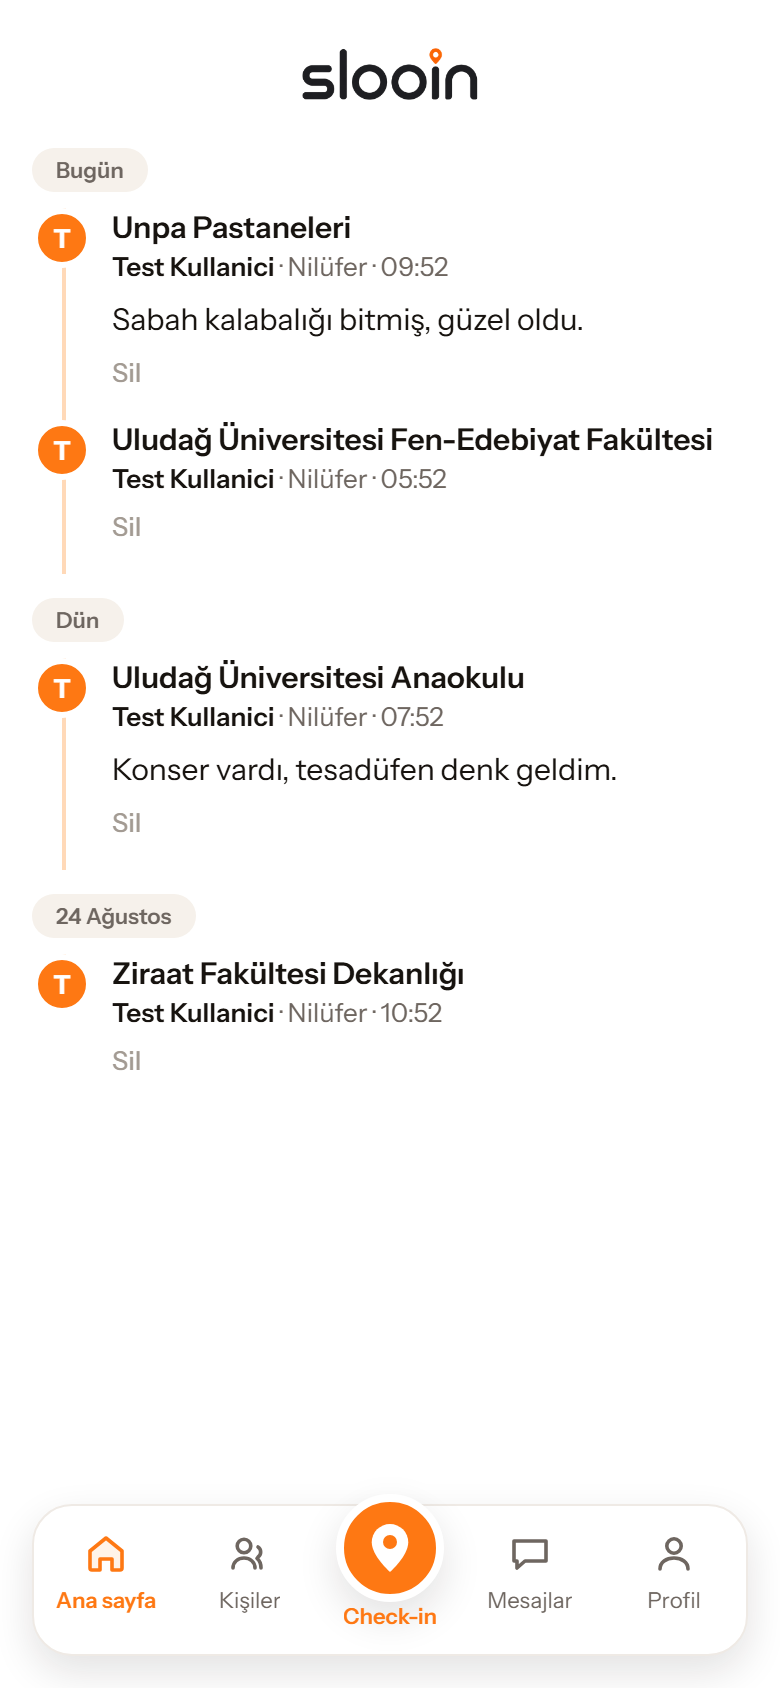
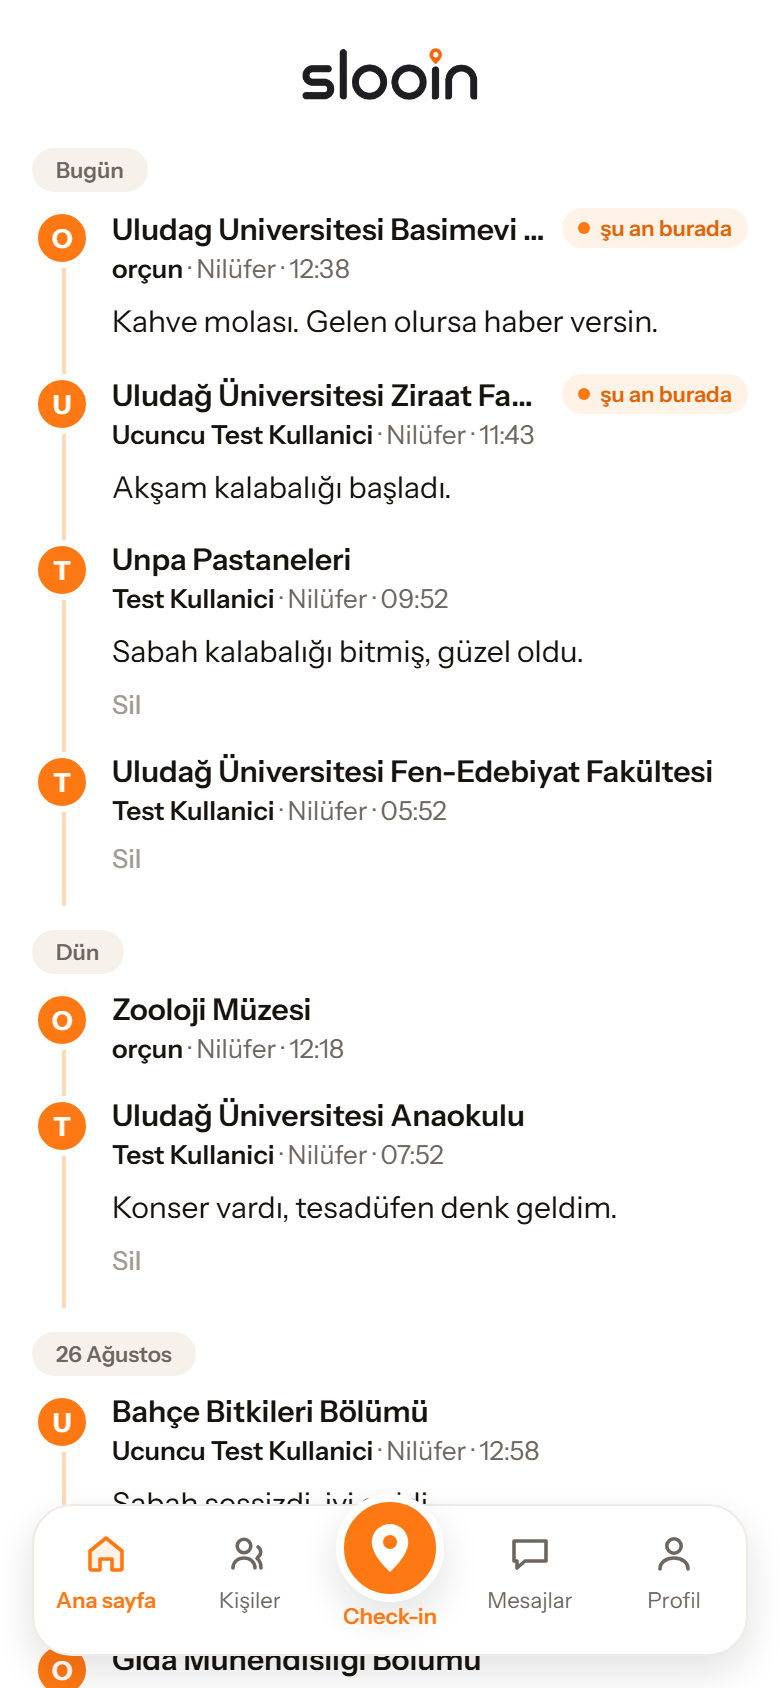
docs: ornek akis verisi kaydedildi (sahte, silme komutuyla birlikte)
Kullanicinin istegi: "Ornek testler olustur anasayfada kendi akisim ve
arkadaslarimin akisi gorunecek sekilde".

Yapilan: 05550000000 ile 05550000001 ve 05550000002 arasinda
KARSILIKLI takip (karar #42 geregi iki satir), ve uc hesaba toplam
9 check-in - ikisi canli (konum dolu, bitis gelecekte) ki "su an
burada" rozeti gorunsun.

Veri SAHTE. Elle test listesine, ne oldugu ve nasil silinecegiyle
birlikte yazildi ki bir sonraki oturum gercek kullanici hareketi
sanmasin.

Claude-Session: https://claude.ai/code/session_01RPADX9vz5pGDstg48GDVRa

diff --git a/docs/elle-test-listesi.md b/docs/elle-test-listesi.md
@@ -33,6 +33,21 @@ mekân listesi boş kalır; bu bir hata değil.
 | `05550000003` | — | `123456` | **Profili var** (`asdfgh`) — artık kayıt akışı için uygun değil |
 | `05550000008` | `test1234` | yok | Profilsiz, SMS alamıyor — sadece giriş ekranından |
 
+> **Örnek akış verisi (2026-08-28, SAHTE).** Zaman tünelini dolu
+> görebilmek için `05550000000` ile `05550000001` ve `05550000002`
+> arasında **karşılıklı takip** kuruldu ve üç hesaba toplam 9 check-in
+> eklendi (ikisi canlı, "şu an burada" rozetli). Hiçbiri gerçek
+> kullanıcı hareketi değil. Temizlemek için:
+>
+> ```sql
+> delete from public.check_inler
+> where kullanici_id in (select id from auth.users
+>   where phone in ('905550000000','905550000001','905550000002'));
+> delete from public.takipler
+> where takip_eden_id in (select id from auth.users
+>   where phone in ('905550000000','905550000001','905550000002'));
+> ```
+
 > **Dikkat:** kayıt akışını (numara → SMS → profil oluştur) baştan sona
 > denemek için şu an **boş bir test numarası yok**. `05550000003` geçen
 > oturumda profil oluşturarak harcandı. Çözüm ikisinden biri: Supabase
